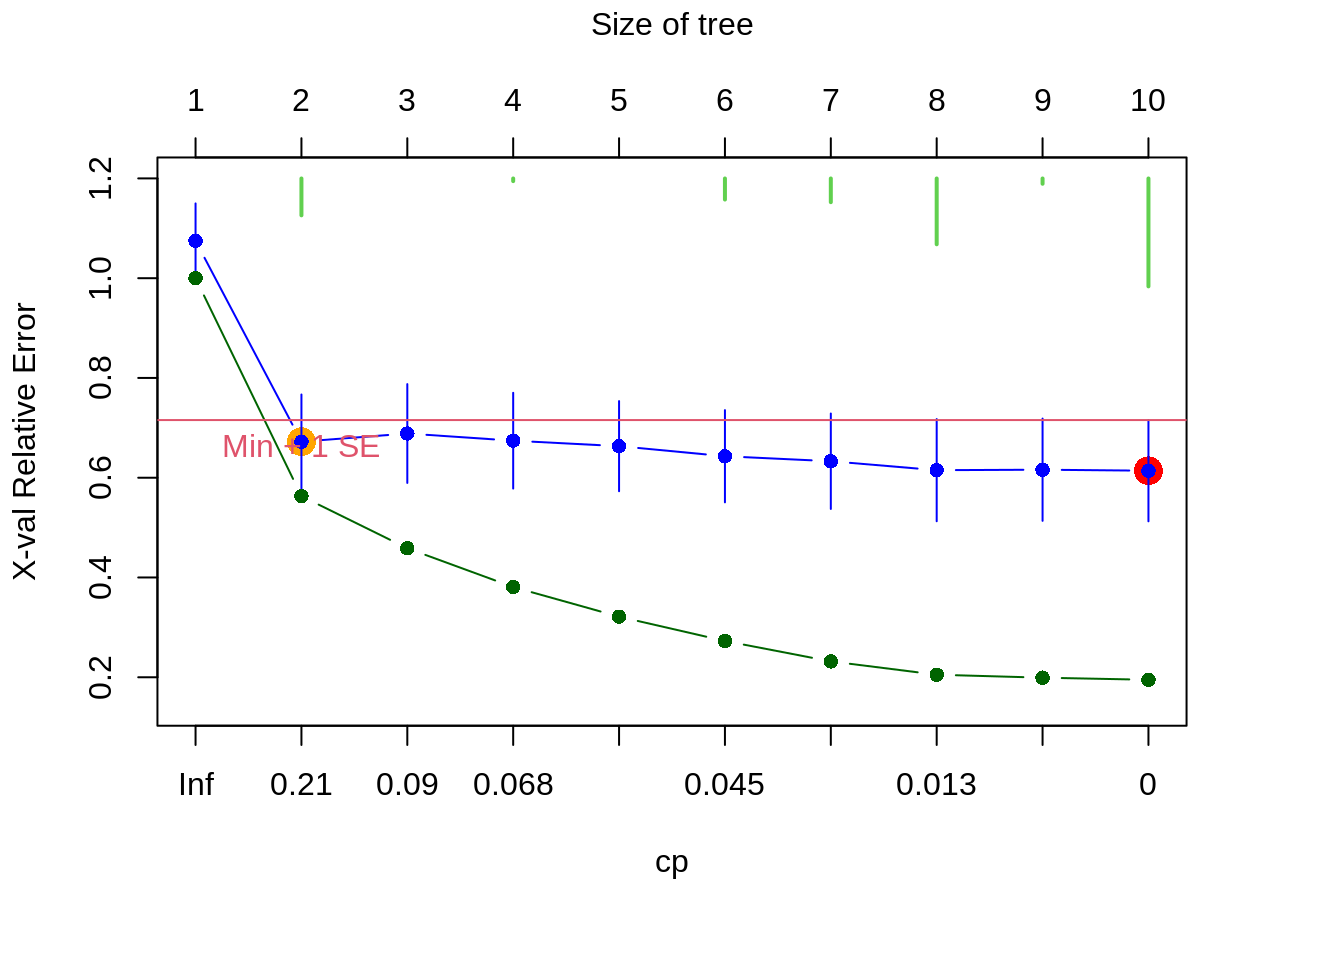
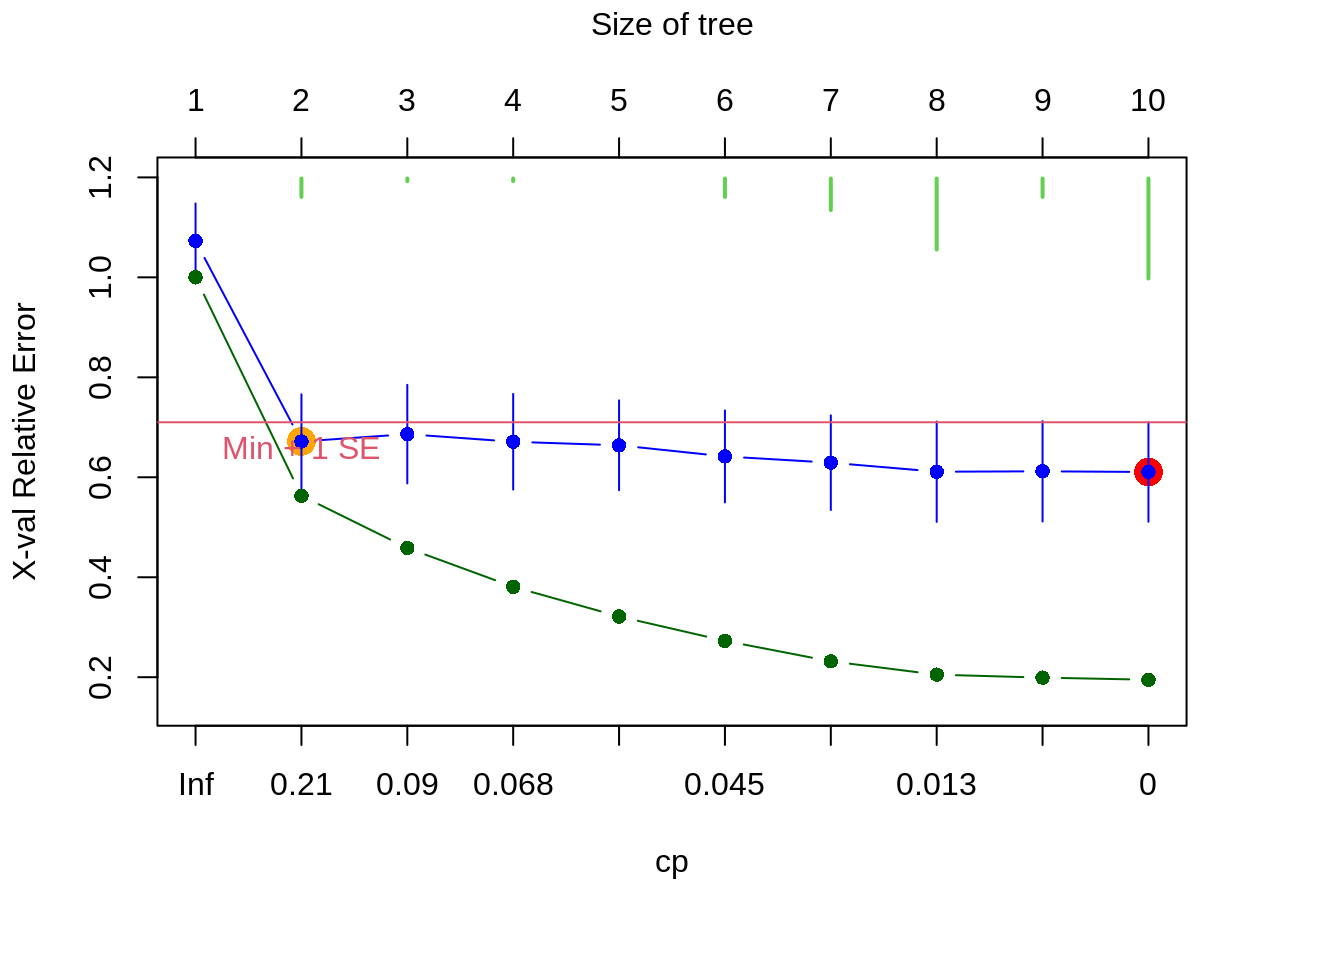
Deploying to gh-pages from  @ da63495690fea746e182aa7368afe929c8a8a798 🚀

Changed region(s): [[0.125, 0.4375, 0.875, 0.5], [0.0625, 0.25, 0.0938, 0.2812]]

diff --git a/book-en/multivariate-regression-tree.html b/book-en/multivariate-regression-tree.html
@@ -305,8 +305,8 @@ Figure 9.1: The basic structure of a multivariate regression tree (MRT).
 <pre><code>## X-Val rep : 1  2  3  4  5  6  7  8  9  10  11  12  13  14  15  16  17  18  19  20  21  22  23  24  25  26  27  28  29  30  31  32  33  34  35  36  37  38  39  40  41  42  43  44  45  46  47  48  49  50  51  52  53  54  55  56  57  58  59  60  61  62  63  64  65  66  67  68  69  70  71  72  73  74  75  76  77  78  79  80  81  82  83  84  85  86  87  88  89  90  91  92  93  94  95  96  97  98  99  100
 ## Minimum tree sizes
 ## tabmins
-##  2  4  6  7  8  9 10 
-## 14  1  8  9 25  2 41</code></pre>
+##  2  3  4  6  7  8  9 10 
+##  7  1  1  7 12 27  7 38</code></pre>
 <p><img src="book-en_files/figure-html/unnamed-chunk-72-1.png" width="672" /></p>
 <p>At this point, you will need to select the tree with an <em>appropriate</em> number of groups, depending on the aim of your study. In other words, you must prune the tree by picking the best-fit tree. A fully resolved tree is not the desirable outcome; instead, one is usually interested in a tree including only informative partitions/groups. In such cases, it is possible to have an <em>a priori</em> idea of the number of potential groups to be retained. You can make this choice interactively, with the argument <code>xv = "pick"</code>.</p>
 <p>The resulting figure shows the relative error RE (in green) and the cross-validated relative error CVRE (in blue) of trees of increasing size. The red dot indicates the solution with the smallest CVRE, and the orange dot shows the smallest tree within one standard error of CVRE. It has been suggested that instead of choosing the solution minimizing CVRE, it would be more parsimonious to opt for the smallest tree for which the CVRE is within one standard error of the tree with the lowest CVRE <span class="citation">Breiman et al. (<a href="#ref-breiman1984classification" role="doc-biblioref">1984</a>)</span>. The green bars at the top indicate the number of times each size was chosen during the cross-validation process. This graph is interactive, which means you will have to click on the blue point corresponding your choice of tree size. In summary:</p>
@@ -347,9 +347,9 @@ Figure 9.1: The basic structure of a multivariate regression tree (MRT).
 <p>To find out how much variance is explained by each node in the tree, we need to look at the complexity parameter (CP). The CP at <code>nsplit = 0</code> is the <span class="math inline">\(R^2\)</span> of the entire tree.</p>
 <div class="sourceCode" id="cb101"><pre class="sourceCode r"><code class="sourceCode r"><span id="cb101-1"><a href="multivariate-regression-tree.html#cb101-1"></a><span class="co"># Checking the complexity parameter</span></span>
 <span id="cb101-2"><a href="multivariate-regression-tree.html#cb101-2"></a>doubs.mrt<span class="op">$</span>cptable</span></code></pre></div>
-<pre><code>##          CP nsplit rel error   xerror       xstd
-## 1 0.4369561      0 1.0000000 1.075013 0.07478962
-## 2 0.1044982      1 0.5630439 0.670831 0.09387861</code></pre>
+<pre><code>##          CP nsplit rel error    xerror       xstd
+## 1 0.4369561      0 1.0000000 1.0763767 0.07499890
+## 2 0.1044982      1 0.5630439 0.6720876 0.09418868</code></pre>
 <p>The summary then outlines, for each node, the best threshold values to split the data.</p>
 <div class="sourceCode" id="cb103"><pre class="sourceCode r"><code class="sourceCode r"><span id="cb103-1"><a href="multivariate-regression-tree.html#cb103-1"></a><span class="co"># Checking the tree result summary</span></span>
 <span id="cb103-2"><a href="multivariate-regression-tree.html#cb103-2"></a><span class="kw">summary</span>(doubs.mrt)</span></code></pre></div>
@@ -359,9 +359,9 @@ Figure 9.1: The basic structure of a multivariate regression tree (MRT).
 ##     legend = FALSE, cp = 0)
 ##   n= 29 
 ## 
-##          CP nsplit rel error   xerror       xstd
-## 1 0.4369561      0 1.0000000 1.075013 0.07478962
-## 2 0.1044982      1 0.5630439 0.670831 0.09387861
+##          CP nsplit rel error    xerror       xstd
+## 1 0.4369561      0 1.0000000 1.0763767 0.07499890
+## 2 0.1044982      1 0.5630439 0.6720876 0.09418868
 ## 
 ## Node number 1: 29 observations,    complexity param=0.4369561
 ##   Means=0.07299,0.2472,0.2581,0.2721,0.07133,0.06813,0.06897,0.07664,0.1488,0.2331,0.113,0.07879,0.1724,0.1366,0.1103,0.08216,0.08751,0.07113,0.07312,0.1345,0.06307,0.04423,0.1015,0.1862,0.07713,0.1623,0.07283, Summed MSE=0.4851823 
@@ -429,8 +429,8 @@ Figure 9.1: The basic structure of a multivariate regression tree (MRT).
 <pre><code>## X-Val rep : 1  2  3  4  5  6  7  8  9  10  11  12  13  14  15  16  17  18  19  20  21  22  23  24  25  26  27  28  29  30  31  32  33  34  35  36  37  38  39  40  41  42  43  44  45  46  47  48  49  50  51  52  53  54  55  56  57  58  59  60  61  62  63  64  65  66  67  68  69  70  71  72  73  74  75  76  77  78  79  80  81  82  83  84  85  86  87  88  89  90  91  92  93  94  95  96  97  98  99  100
 ## Minimum tree sizes
 ## tabmins
-##  2  3  4  5  6  7  8  9 11 12 17 
-##  2 14  3 10 13 29 19  6  1  2  1</code></pre>
+##  2  3  4  5  6  7  8  9 11 16 18 
+##  4  7  6  8 17 22 26  6  2  1  1</code></pre>
 <p><img src="book-en_files/figure-html/unnamed-chunk-83-1.png" width="672" /></p>
 <p>What is the proportion of variance (<span class="math inline">\(R^2\)</span>) explained by this tree?
 * <span class="math inline">\(1 - 0.748 = 0.252\)</span>, so the tree explains <strong>25.2%</strong> of the variance in the species matrix.</p>
@@ -448,20 +448,20 @@ Figure 9.1: The basic structure of a multivariate regression tree (MRT).
 ##        2        2        2        2        2        2        1        2 
 ##    HMIN2     NPRA     TVEL     ONOV     SUCT     LCIL Oribatl1 Ceratoz1 
 ##        2        2        2        2        2        1        2        1 
-##     PWIL Galumna1 Stgncrs2 Trhypch1     NCOR     SLAT     FSET Lepidzts 
-##        2        2        2        1        1        2        2        2 
-## Miniglmn     LRUG Ceratoz3 Trimalc2 
-##        2        1        1        1</code></pre>
+## Galumna1 Stgncrs2 Trhypch1     NCOR     SLAT     FSET Lepidzts Miniglmn 
+##        2        2        1        1        2        2        2        2 
+##     LRUG Ceratoz3 Trimalc2 
+##        1        1        1</code></pre>
 <div class="sourceCode" id="cb115"><pre class="sourceCode r"><code class="sourceCode r"><span id="cb115-1"><a href="multivariate-regression-tree.html#cb115-1"></a><span class="co"># Extract their indicator values</span></span>
 <span id="cb115-2"><a href="multivariate-regression-tree.html#cb115-2"></a>mite.mrt.indval<span class="op">$</span>indcls[<span class="kw">which</span>(mite.mrt.indval<span class="op">$</span>pval <span class="op">&lt;=</span><span class="st"> </span><span class="fl">0.05</span>)]</span></code></pre></div>
 <pre><code>##      PHTH      RARD      SSTR   Protopl      MEGR      MPRO      TVIE      HMIN 
 ## 0.5317919 0.5584677 0.2256592 0.2517509 0.5769554 0.1567789 0.3793303 0.6421174 
 ##     HMIN2      NPRA      TVEL      ONOV      SUCT      LCIL  Oribatl1  Ceratoz1 
 ## 0.6193076 0.4620892 0.7412296 0.6312483 0.6087557 0.7152107 0.5978167 0.4744997 
-##      PWIL  Galumna1  Stgncrs2  Trhypch1      NCOR      SLAT      FSET  Lepidzts 
-## 0.3779883 0.5974145 0.3897917 0.4545803 0.4539642 0.2249109 0.6361272 0.2108305 
-##  Miniglmn      LRUG  Ceratoz3  Trimalc2 
-## 0.1880194 0.6683300 0.3962540 0.4358974</code></pre>
+##  Galumna1  Stgncrs2  Trhypch1      NCOR      SLAT      FSET  Lepidzts  Miniglmn 
+## 0.5974145 0.3897917 0.4545803 0.4539642 0.2249109 0.6361272 0.2108305 0.1880194 
+##      LRUG  Ceratoz3  Trimalc2 
+## 0.6683300 0.3962540 0.4358974</code></pre>
 
 </div>
 </div>

diff --git a/book-en/redundancy-analysis.html b/book-en/redundancy-analysis.html
@@ -366,7 +366,7 @@ Figure 6.2: The computation process of an RDA, from Legendre &amp; Legendre (201
 ##          Df Variance       F Pr(&gt;F)    
 ## alt       1 0.164856 19.9759  0.001 ***
 ## oxy       1 0.082426  9.9877  0.001 ***
-## dbo       1 0.048909  5.9264  0.003 ** 
+## dbo       1 0.048909  5.9264  0.002 ** 
 ## Residual 25 0.206319                   
 ...</code></pre>
 <p>You can also test the significance of each canonical axis with <code>by = "axis"</code>. Recall that these axes represent the variation in explanatory variables in fewer dimensions.</p>
@@ -376,7 +376,7 @@ Figure 6.2: The computation process of an RDA, from Legendre &amp; Legendre (201
 ##          Df Variance       F Pr(&gt;F)    
 ## RDA1      1 0.218022 26.4181  0.001 ***
 ## RDA2      1 0.050879  6.1651  0.001 ***
-## RDA3      1 0.027291  3.3069  0.001 ***
+## RDA3      1 0.027291  3.3069  0.002 ** 
 ## Residual 25 0.206319                   
 ...</code></pre>
 <p>Our full model is statistically significant (p = 0.001), and every variable included in this model is significant as well (p = 0.001). Every canonical axis resulting from the RDA is also statistically significant (p = 0.001).</p>

diff --git a/book-en/index.html b/book-en/index.html
@@ -251,7 +251,7 @@ code span.wa { color: #8f5902; font-weight: bold; font-style: italic; } /* Warni
 <h1 class="title">Workshop 10: Advanced Multivariate Analyses in <code>R</code></h1>
 <h2 class="subtitle"><em>QCBS R Workshop Series</em></h2>
 <p class="author"><em>Developed and maintained by the contributors of the QCBS R Workshop Series<a href="#fn1" class="footnote-ref" id="fnref1"><sup>1</sup></a></em></p>
-<p class="date" style="margin-top: 1.5em;"><em>2021-07-27 15:24:52</em></p>
+<p class="date" style="margin-top: 1.5em;"><em>2021-07-27 15:34:51</em></p>
 </div>
 <div id="preface" class="section level1 unnumbered">
 <h1>Preface</h1>

diff --git a/book-en/partial-redundancy-analysis.html b/book-en/partial-redundancy-analysis.html
@@ -402,7 +402,7 @@ Figure 7.1: The basic structure of a redundancy analysis (RDA).
 ## Model: rda(formula = mite.spe.hel ~ Shrub + Topo + Condition(SubsDens + WatrCont + Substrate), data = mite.env)
 ##          Df Variance      F Pr(&gt;F)    
 ## RDA1      1 0.027236 8.4618  0.001 ***
-## RDA2      1 0.008254 2.5643  0.022 *  
+## RDA2      1 0.008254 2.5643  0.026 *  
 ## RDA3      1 0.003193 0.9919  0.419    
 ## Residual 58 0.186688                  
 ## ---
